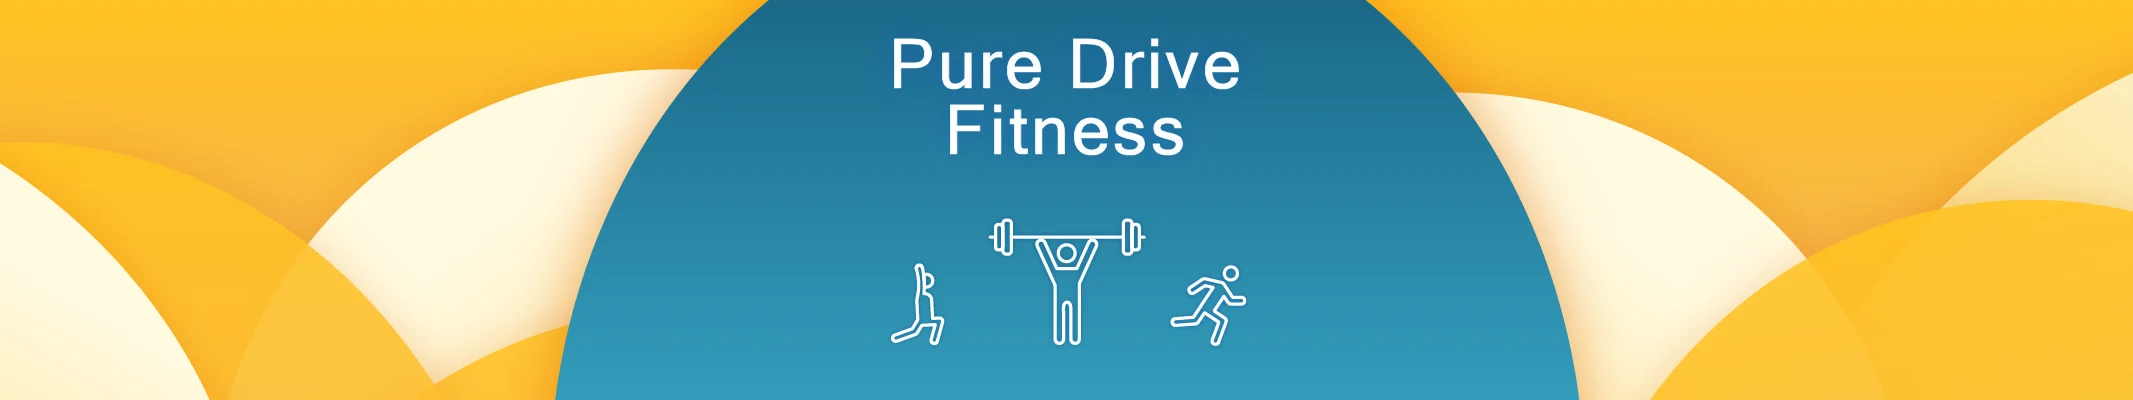
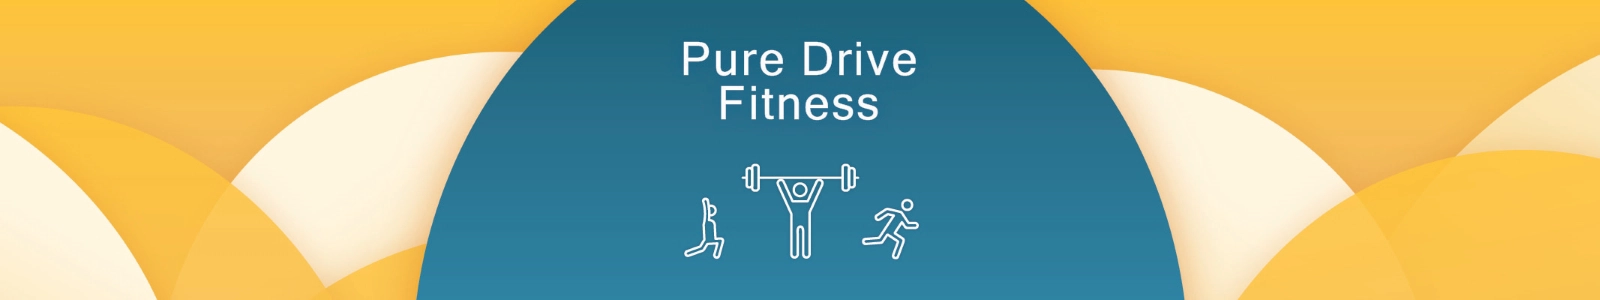
revise hero image

diff --git a/static/css/style.css b/static/css/style.css
@@ -97,6 +97,7 @@ main {
   background-repeat: no-repeat;
   background-size: cover;
   width: 80%;
+  max-width: 1200px;
   height: 300px;
   margin: auto;
   margin-top: 50px;

diff --git a/README.md b/README.md
@@ -825,7 +825,7 @@ Page Performance was tested using Lighthouse, all pages achieved a score of at l
 
 | Feature | Action | Expected Result | Actual Result |
 | ------- | ------ | --------------- | ------------- |
-|  |  |  |  |
+|  |  |  | As expected |
 
 2. As a **user** I can **read detail about the session types that are available** so that **I understand what is best for me**
 
